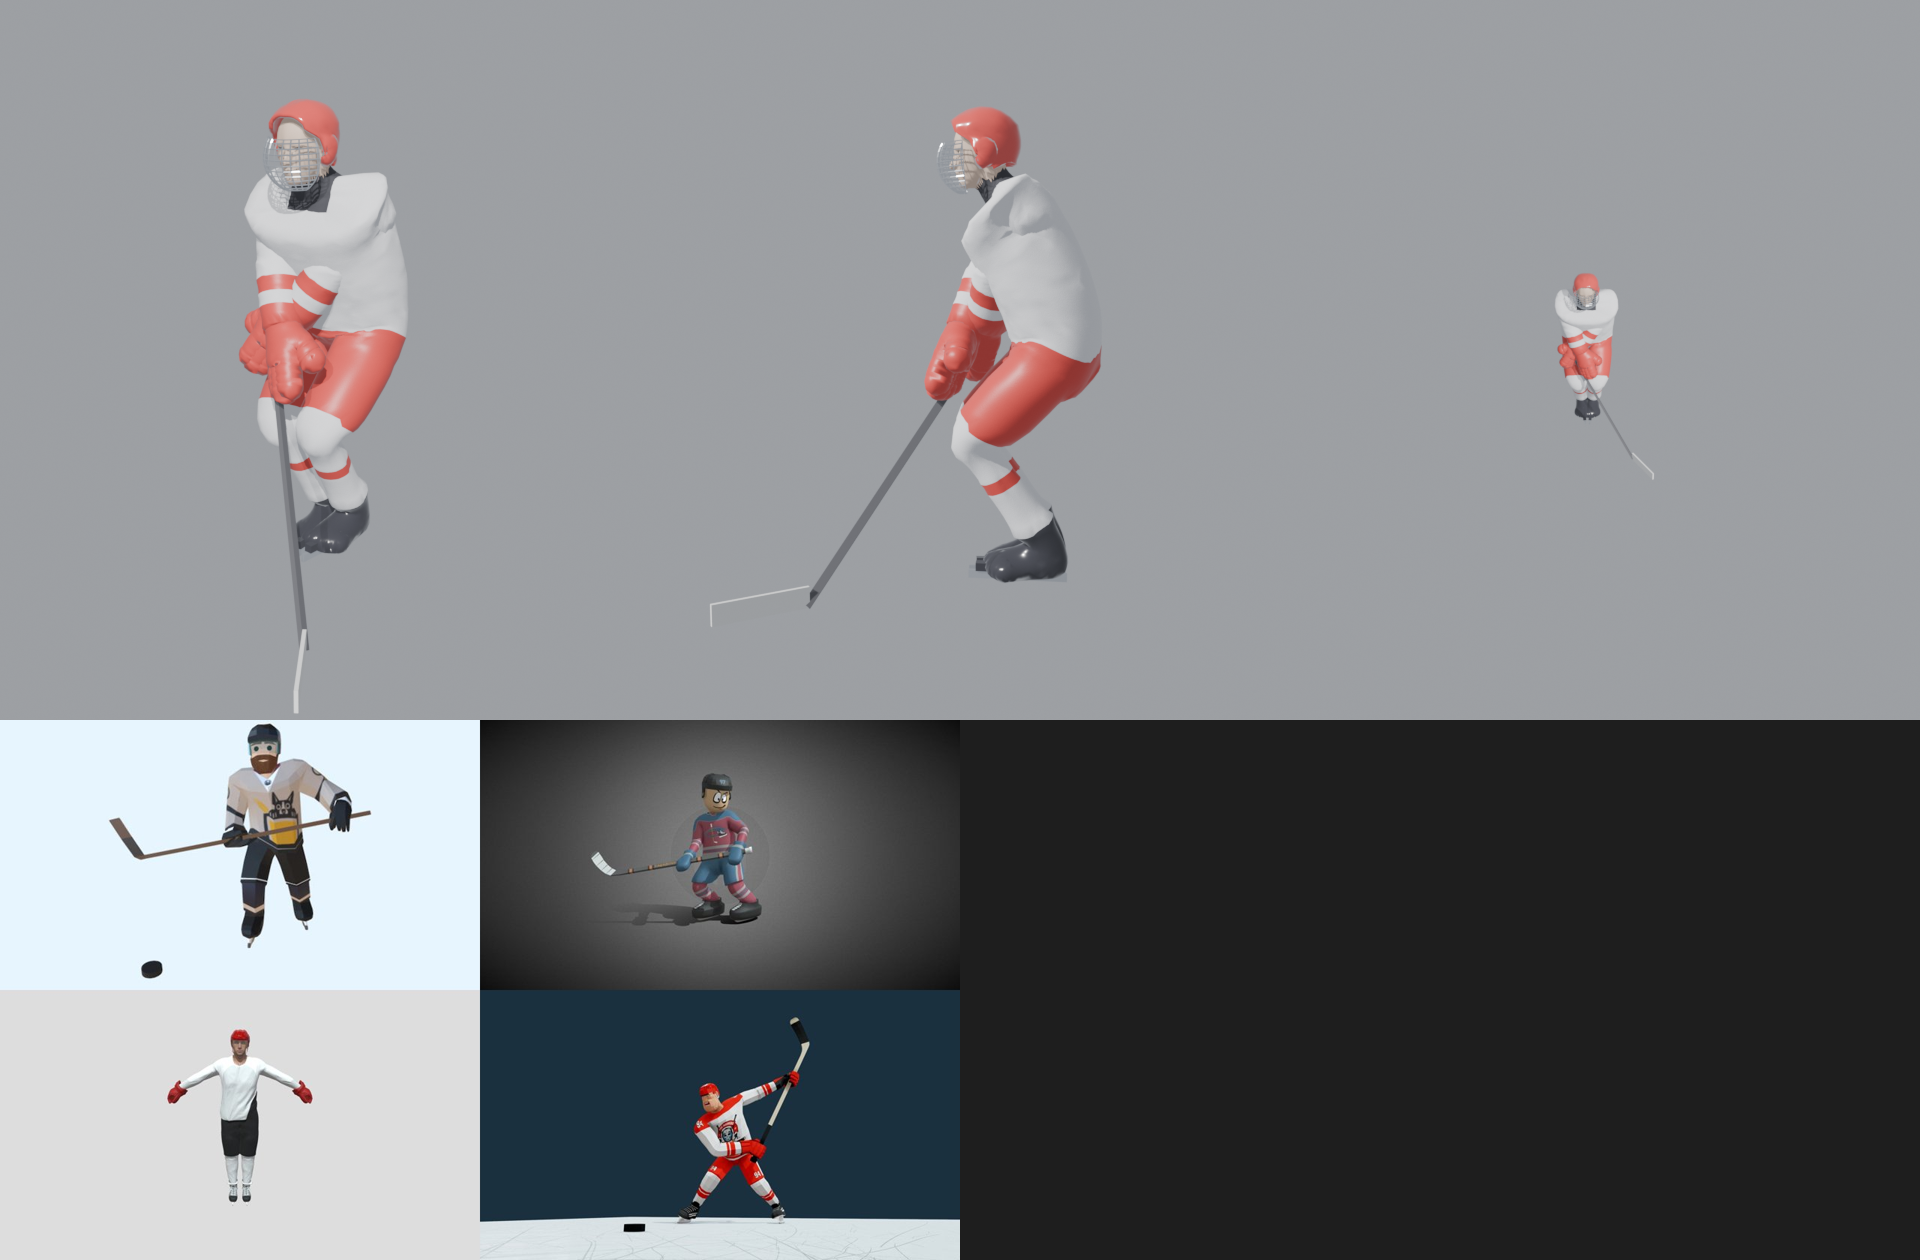
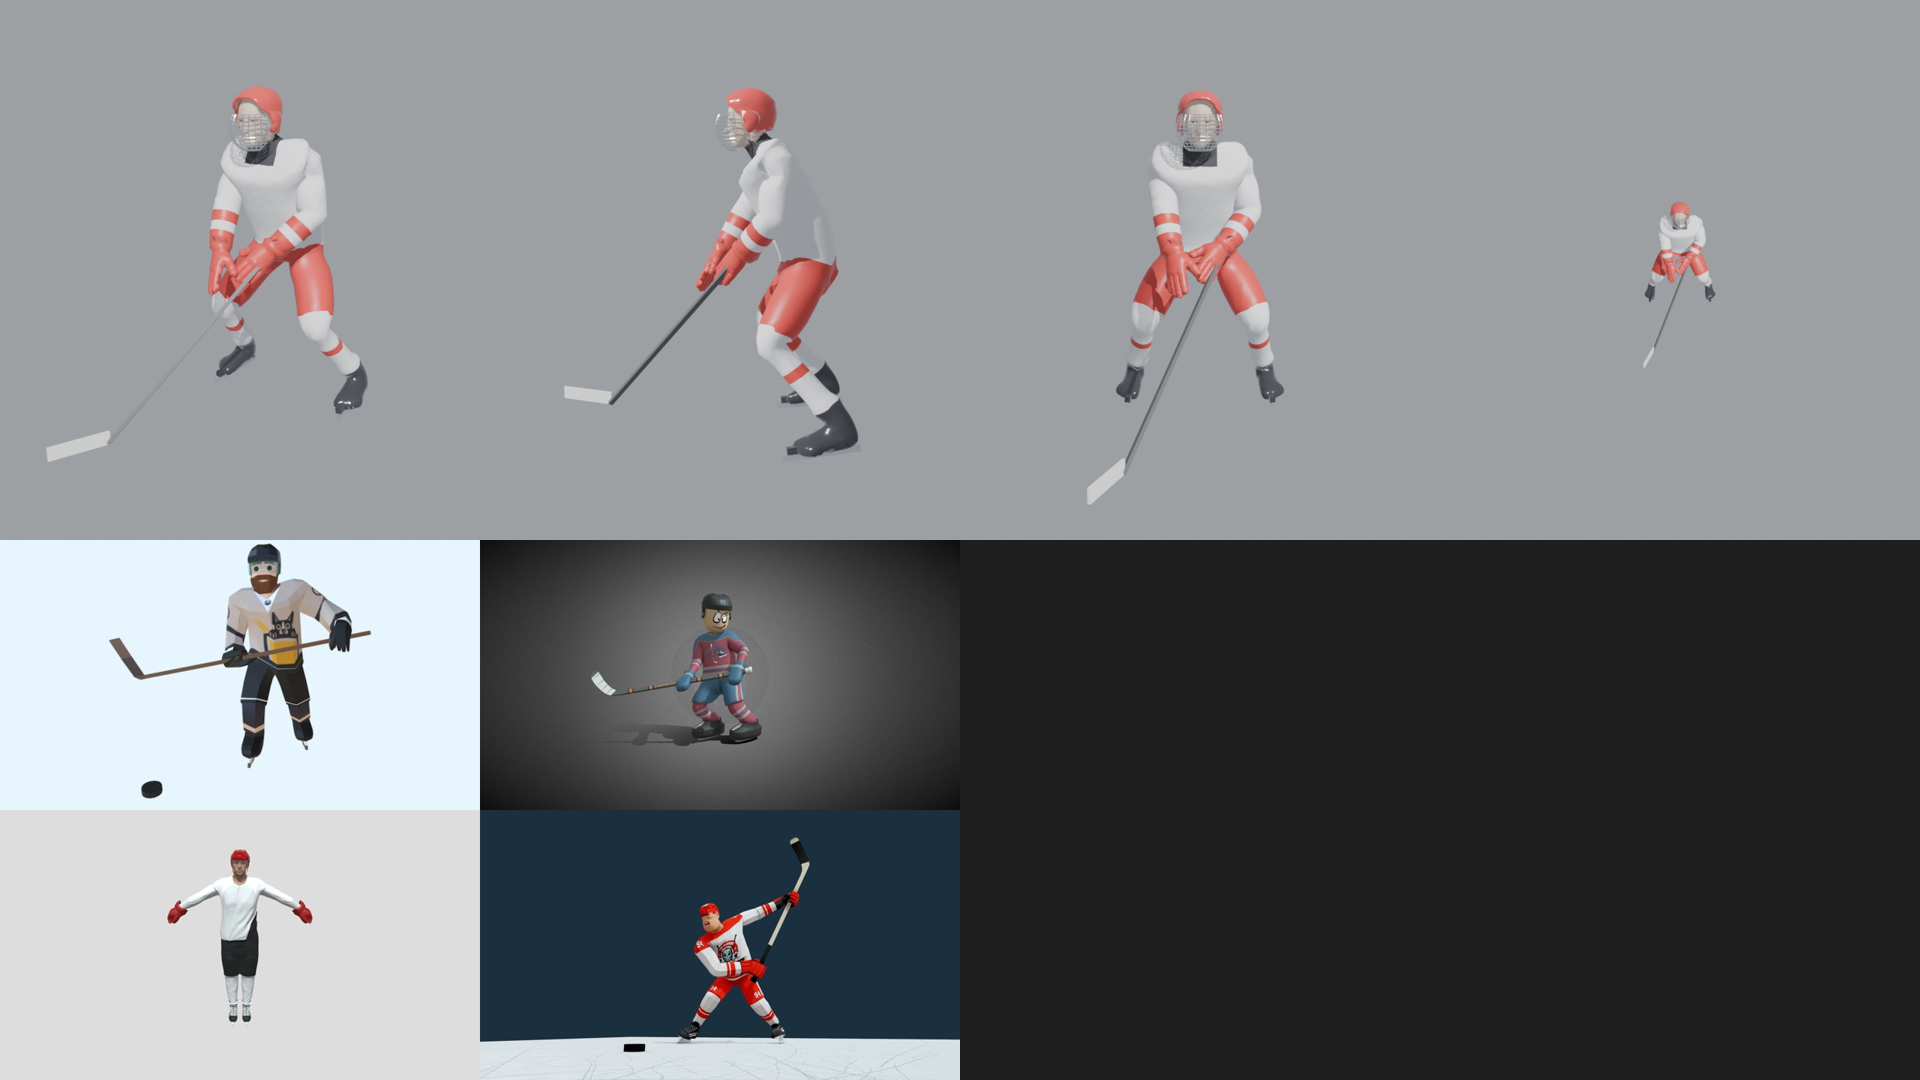
Skater: slimmer garments, thinner gloves, ready stance script with a two-hand grip

diff --git a/assets/src/skater/build_outfit.py b/assets/src/skater/build_outfit.py
@@ -19,8 +19,8 @@ def superell(ang, a, b, p):
     return a * math.copysign(abs(c) ** (2 / p), c), b * math.copysign(abs(s) ** (2 / p), s)
 def torso_ab(z):
     # jersey section: straight hang from the hem, widening into rounded shoulder pads
-    a = lerp(0.235, 0.255, sstep(HEM, 1.30, z)); a = lerp(a, 0.285, sstep(1.32, 1.44, z))
-    b = lerp(0.165, 0.178, sstep(HEM, 1.35, z))
+    a = lerp(0.195, 0.21, sstep(HEM, 1.30, z)); a = lerp(a, 0.245, sstep(1.32, 1.44, z))
+    b = lerp(0.135, 0.148, sstep(HEM, 1.35, z))
     return a, b
 
 def region(c, bone):
@@ -67,22 +67,22 @@ def build():
             a, b = torso_ab(c.z); ang = math.atan2((c.y - 0.02) / b, c.x / a); px, py = superell(ang, a, b, 2.4)
             w = 1 - sstep(0.24, 0.33, ax) if c.z > 1.2 else 1
             v.co = c.lerp(Vector((px, 0.02 + py, c.z)), w); c = v.co.copy()
-            if 0.13 < ax < 0.34 and c.z > 1.34:   # sloped shoulder pads
-                v.co.z -= 0.07 * ((ax - 0.13) / 0.21) ** 2 * sstep(1.34, 1.5, c.z); c = v.co.copy()
+            if 0.13 < ax < 0.32 and c.z > 1.34:   # sloped shoulder pads
+                v.co.z -= 0.06 * ((ax - 0.13) / 0.19) ** 2 * sstep(1.34, 1.5, c.z); c = v.co.copy()
         if r in ('jersey', 'stripe', 'cuff') and ax > 0.22 and c.z > 1.2:
-            R = 0.078 if r == 'cuff' else lerp(0.102, 0.082, sstep(0.25, 0.6, ax))
+            R = 0.064 if r == 'cuff' else lerp(0.08, 0.066, sstep(0.25, 0.6, ax))
             axis = Vector((c.x, 0.07, 1.456)); d = c - axis; d.x = 0
             if d.length > 1e-5: v.co = c.lerp(axis + d.normalized() * R, sstep(0.22, 0.32, ax))
         if r == 'pants':
             if c.z > 0.86:
-                a, b = 0.228, 0.16; ang = math.atan2((c.y - 0.03) / b, c.x / a); px, py = superell(ang, a, b, 2.4)
+                a, b = 0.195, 0.14; ang = math.atan2((c.y - 0.03) / b, c.x / a); px, py = superell(ang, a, b, 2.4)
                 v.co = Vector((px, 0.03 + py, c.z))
             else:
                 axis = Vector((sx * 0.125, 0.03, c.z)); d = c - axis; d.z = 0
-                if d.length > 1e-5: v.co = axis + d.normalized() * lerp(0.118, 0.126, sstep(KNEE, 0.86, c.z))
+                if d.length > 1e-5: v.co = axis + d.normalized() * lerp(0.098, 0.106, sstep(KNEE, 0.86, c.z))
         if r in ('sock', 'stripe') and SKATE < c.z < KNEE + E:
             t = (KNEE - c.z) / (KNEE - SKATE); axis = Vector((sx * 0.114, lerp(0.036, 0.08, t), c.z)); d = c - axis; d.z = 0
-            if d.length > 1e-5: v.co = axis + d.normalized() * (0.075 if d.y < 0 else 0.062)
+            if d.length > 1e-5: v.co = axis + d.normalized() * (0.062 if d.y < 0 else 0.052)
     # knee: breezer cuff blends into the shin pad, with a knee cap in front
     for v in bm.verts:
         c = v.co
@@ -92,17 +92,17 @@ def build():
             axis = Vector((sx * (0.114 + 0.011 * t), ay * (1 - t) + 0.03 * t, c.z)); d = c - axis; d.z = 0
             if d.length < 1e-5: continue
             front = d.normalized().y < 0
-            R = (0.08 if front else 0.065) * (1 - t) + 0.118 * t
-            if front: R += 0.015 * max(0, 1 - abs(c.z - (KNEE - 0.05)) / 0.05)
+            R = (0.066 if front else 0.054) * (1 - t) + 0.098 * t
+            if front: R += 0.01 * max(0, 1 - abs(c.z - (KNEE - 0.05)) / 0.05)
             v.co = axis + d.normalized() * R
     bm.normal_update()
     gl = [v for v in bm.verts if vregion[v.index] == 'glove']
-    for _ in range(5): bmesh.ops.smooth_vert(bm, verts=gl, factor=0.5, use_axis_x=True, use_axis_y=True, use_axis_z=True)
+    for _ in range(2): bmesh.ops.smooth_vert(bm, verts=gl, factor=0.3, use_axis_x=True, use_axis_y=True, use_axis_z=True)
     sk = [v for v in bm.verts if vregion[v.index] == 'skate']
     for _ in range(10): bmesh.ops.smooth_vert(bm, verts=sk, factor=0.5, use_axis_x=True, use_axis_y=True, use_axis_z=True)
     bm.normal_update()
-    for v in gl: v.co += v.normal * 0.042
-    for v in sk: v.co += v.normal * 0.028
+    for v in gl: v.co += v.normal * (0.03 if abs(v.co.x) < GLOVE + 0.05 else 0.012)  # padded back of hand, slim fingers
+    for v in sk: v.co += v.normal * 0.02
     cl = [v for v in bm.verts if vregion[v.index] in ('jersey', 'stripe', 'pants', 'sock', 'cuff')]
     for _ in range(3): bmesh.ops.smooth_vert(bm, verts=cl, factor=0.4, use_axis_x=True, use_axis_y=True, use_axis_z=True)
 

diff --git a/assets/src/skater/pose_ready.py b/assets/src/skater/pose_ready.py
@@ -1,0 +1,76 @@
+# Ready stance for the skater rig (Quaternius UE-style bone names), with the stick held in two hands.
+# Run inside Blender after build_outfit.py: exec(open(path).read()).
+# Right-hand shot: blade on the right, left hand on top of the stick, right hand partway down.
+# The character faces -Y, so his LEFT side is +X and his right side is -X.
+import bpy, bmesh, math
+from mathutils import Vector, Matrix
+
+sc = bpy.context.scene; vl = bpy.context.view_layer
+arm = bpy.data.objects['Armature']; P = arm.pose.bones
+if arm.animation_data: arm.animation_data.action = None
+arm.location = (0, 0, 0)
+for pb in P:
+    pb.rotation_mode = 'QUATERNION'; pb.rotation_quaternion = (1, 0, 0, 0); pb.location = (0, 0, 0); pb.scale = (1, 1, 1)
+    for c in list(pb.constraints): pb.constraints.remove(c)
+vl.update()
+
+def rot(name, axis, deg):
+    pb = P[name]; M = pb.matrix.copy(); piv = M.translation.copy()
+    pb.matrix = Matrix.Translation(piv) @ Matrix.Rotation(math.radians(deg), 4, axis) @ Matrix.Translation(-piv) @ M
+    vl.update()
+
+# legs: shoulder-width stance, toes turned out, knees bent over the toes, skates flat on the ice
+for s, side in ((1, 'l'), (-1, 'r')):
+    rot('thigh_' + side, 'Y', -s * 16)      # spread the legs (left leg out to +X)
+    rot('thigh_' + side, 'X', -40)          # knee forward
+    rot('calf_' + side, 'X', 66)            # shin back
+    rot('foot_' + side, 'Y', s * 14)        # keep the blade flat after the spread
+    rot('foot_' + side, 'X', -26)
+    rot('thigh_' + side, 'Z', s * 12)       # toes out
+# torso: lean forward from the hips, chest up, eyes up the ice
+rot('pelvis', 'X', 8)
+rot('spine_01', 'X', 16); rot('spine_02', 'X', 6)
+rot('neck_01', 'X', -10); rot('Head', 'X', -16)
+vl.update()
+
+# drop the body so the blades rest on the ice
+dg = bpy.context.evaluated_depsgraph_get(); low = 1e9
+for n in ('blade_l', 'blade_r'):
+    o = bpy.data.objects[n].evaluated_get(dg); m = o.to_mesh()
+    low = min(low, min((o.matrix_world @ v.co).z for v in m.vertices)); o.to_mesh_clear()
+arm.location.z -= low; vl.update()
+
+# stick: out in front, blade ahead and a little to the right, shaft at a natural lie angle
+pelvis = arm.matrix_world @ P['pelvis'].matrix.translation
+TOP = pelvis + Vector((0.14, -0.30, 0.12))           # in front of the left hip
+HEEL = Vector((pelvis.x - 0.32, pelvis.y - 1.05, 0.035))  # out front, to his right
+for n in ('stick', 'grip_l', 'grip_r', 'pole_l', 'pole_r'):
+    x = bpy.data.objects.get(n)
+    if x: bpy.data.objects.remove(x)
+sh = HEEL - TOP; L = sh.length; d = sh.normalized()
+me = bpy.data.meshes.new('stick'); bm = bmesh.new()
+def box(center, size, rotm, mi):
+    r = bmesh.ops.create_cube(bm, size=1)
+    for v in r['verts']: v.co = center + rotm @ Vector((v.co.x * size[0], v.co.y * size[1], v.co.z * size[2]))
+    for f in {f for v in r['verts'] for f in v.link_faces}: f.material_index = mi
+zq = Vector((0, 0, 1)).rotation_difference(d).to_matrix()
+box((TOP + HEEL) / 2, (0.026, 0.018, L), zq, 0)
+box(TOP + d * 0.05, (0.032, 0.024, 0.09), zq, 1)
+bd = Vector((-0.35, -0.94, 0)).normalized(); bq = Vector((1, 0, 0)).rotation_difference(bd).to_matrix()
+box(HEEL + bd * 0.14 + Vector((0, 0, 0.03)), (0.30, 0.012, 0.065), bq, 1)
+bm.to_mesh(me); bm.free()
+me.materials.append(bpy.data.materials['stick_shaft']); me.materials.append(bpy.data.materials['stick_tape'])
+sc.collection.objects.link(bpy.data.objects.new('stick', me))
+
+# hands: top hand at the knob, bottom hand about a third of the way down; elbows out, not tucked in
+def empty(name, loc):
+    e = bpy.data.objects.new(name, None); sc.collection.objects.link(e); e.location = loc; return e
+gl = empty('grip_l', TOP + d * 0.06)
+gr = empty('grip_r', TOP + d * (L * 0.46))
+pl = empty('pole_l', pelvis + Vector((0.6, 0.15, 0.45)))
+pr = empty('pole_r', pelvis + Vector((-0.6, 0.1, 0.25)))
+for side, g, pole in (('l', gl, pl), ('r', gr, pr)):
+    c = P['lowerarm_' + side].constraints.new('IK'); c.target = g; c.chain_count = 2
+    c.pole_target = pole; c.pole_angle = math.radians(-90)
+vl.update()
+print('pose set; pelvis', [round(v, 2) for v in pelvis], 'stick length', round(L, 2))
